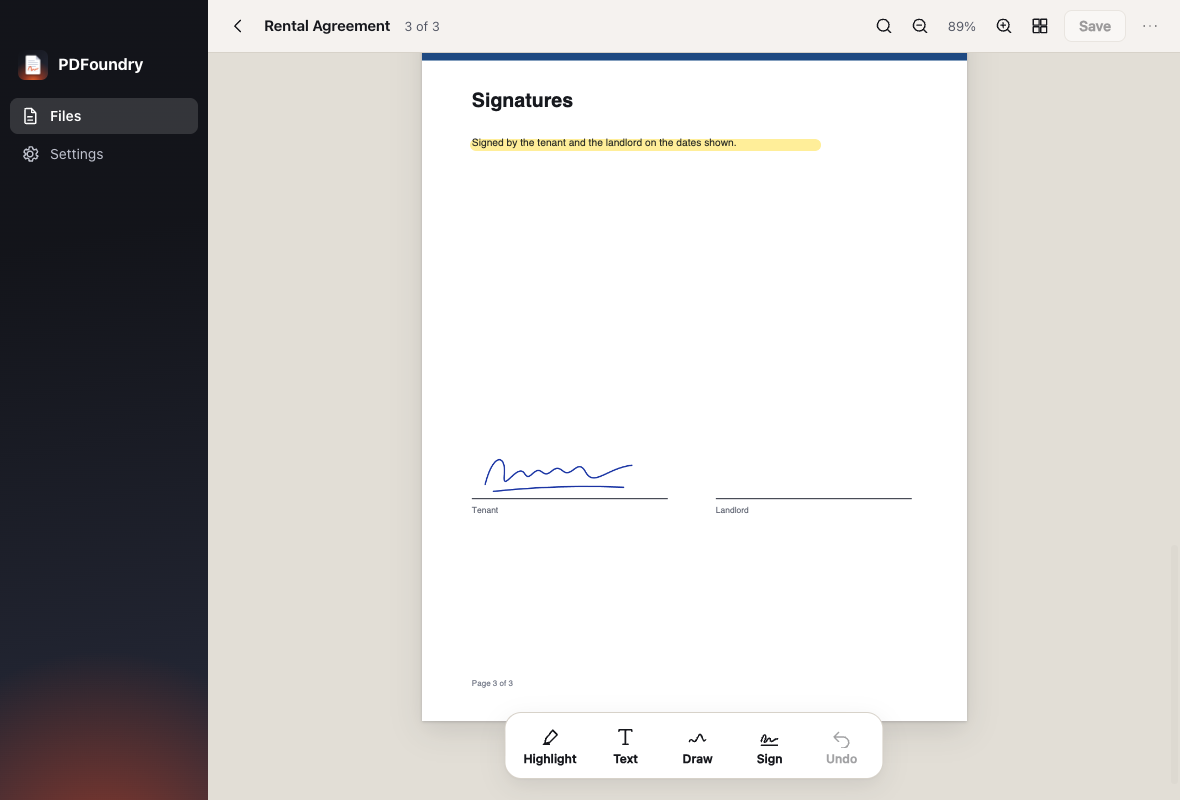
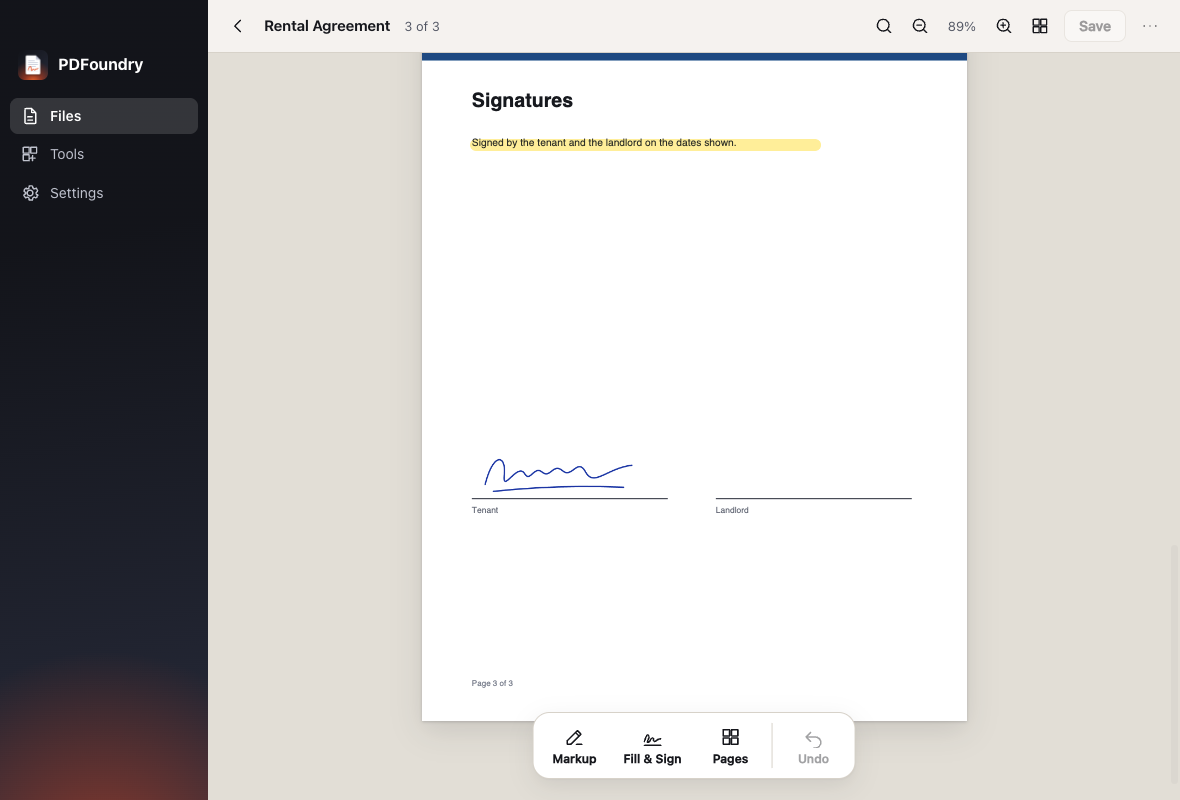
Desktop 1.2.0, new desktop screenshots, README, website and release notes for the redesign

Changed region(s): [[0.4271, 0.875, 0.7627, 0.9688], [0.0, 0.1875, 0.0915, 0.25]]

diff --git a/Website/index.html b/Website/index.html
@@ -50,11 +50,11 @@
       </article>
       <article>
         <h3>Merge</h3>
-        <p>Pick two or more documents, put them in order, and join them into a single PDF.</p>
+        <p>Pick two or more documents, put them in order, and join them into a single PDF. The Tools tab also saves the pages you choose as a new PDF, without changing the original.</p>
       </article>
       <article>
         <h3>Edit</h3>
-        <p>Highlight, type notes and draw on the page. Reorder, rotate, duplicate, extract or delete pages, and undo what you change. On a phone your changes are saved to the same file as you make them, and Revert to Original puts it back as it was when you opened it.</p>
+        <p>Highlight, underline or strike through the text you select, type notes and draw on the page. Markup, Fill &amp; Sign and Pages each keep their own tools in the reader's bar. Reorder, rotate, duplicate, extract or delete pages, and undo what you change. On a phone your changes are saved to the same file as you make them, and Revert to Original puts it back as it was when you opened it.</p>
       </article>
       <article>
         <h3>Sign</h3>
@@ -87,8 +87,8 @@
     <h2>On Mac, Windows and Linux</h2>
     <p class="lede">On a computer, PDFoundry works the way you expect a desktop program to. A PDF opens where you keep it, and it changes only when you press Save. Save As makes a new file and leaves the original alone.</p>
     <div class="desk-shots">
-      <figure><img src="assets/desktop-library.png" alt="Recent files in PDFoundry on a computer" loading="lazy"><figcaption>Your recent files</figcaption></figure>
-      <figure><img src="assets/desktop-signed.png" alt="A signed and highlighted document in PDFoundry on a computer" loading="lazy"><figcaption>Sign and highlight</figcaption></figure>
+      <figure><img src="assets/desktop-markup.png" alt="Markup tools and a text highlight in PDFoundry on a computer" loading="lazy"><figcaption>Mark up the text</figcaption></figure>
+      <figure><img src="assets/desktop-tools.png" alt="The Tools page in PDFoundry on a computer" loading="lazy"><figcaption>Tools</figcaption></figure>
     </div>
   </section>
 

diff --git a/README.md b/README.md
@@ -54,8 +54,8 @@ The phone apps are native: Swift and SwiftUI on iPhone and iPad, Kotlin and Jetp
 | Platform | Version | Status |
 |---|---|---|
 | iPhone and iPad | 1.0.0 | Submitted to the App Store, waiting for review. Available to testers on TestFlight |
-| Android | 1.0.3 | In closed testing on Google Play |
-| macOS, Windows and Linux | 1.1.1 | Released. [Download](https://github.com/Fahed-Alhammadi/PDFoundry/releases/latest). The Mac app is signed and notarized |
+| Android | 1.0.4 | In closed testing on Google Play |
+| macOS, Windows and Linux | 1.2.0 | Released. [Download](https://github.com/Fahed-Alhammadi/PDFoundry/releases/latest). The Mac app is signed and notarized |
 
 Store links for the phone apps will be added here and on the [website](https://fahed-alhammadi.github.io/PDFoundry/) when the apps are public.
 
@@ -66,8 +66,10 @@ Store links for the phone apps will be added here and on the [website](https://f
 | **Read** | Open a PDF where it is in Files, or receive one from Mail, Safari or the share sheet. Search the text. Scroll vertically or sideways | Open a PDF where it is with the file picker, or receive one from any app's share menu. Search the text. Pinch to zoom | Open a PDF where it is, or drop it onto the window. Search the text. Zoom |
 | **Scan and create** | Scan paper with the camera. Build a PDF from photos | Scan paper with Google's document scanner. Build a PDF from photos | Build a PDF from images. No scanning |
 | **Merge** | Select documents, drag them into order, merge | Select documents, order them with arrows, merge | Select documents, order them with arrows, merge |
-| **Highlight** | Select text, then highlight (four colours), underline or strike through | Drag a marker over the page | Drag a marker over the page, four colours |
-| **Text and drawing** | Type anywhere. Draw with a finger or Apple Pencil | Type anywhere (Arabic shapes correctly). Draw with a finger or stylus | Type anywhere (Arabic shapes correctly). Draw with the mouse or a pen |
+| **Tools** | A Tools tab: Scan Document, Create from Photos, Merge PDFs, Extract Pages | Same | A Tools page in the sidebar: Create from Images, Merge PDFs, Extract Pages |
+| **Reader** | A bar with three labelled groups: Markup, Fill & Sign and Pages, plus Undo | Same | Same |
+| **Markup** | Select text, then highlight (four colours), underline or strike through | Same | Same |
+| **Text and drawing** | Type anywhere. Draw with a finger or Apple Pencil | Type anywhere (Arabic shapes correctly). Draw with a finger or stylus, or with a highlighter pen | Type anywhere (Arabic shapes correctly). Draw with the mouse or a pen, or with a highlighter pen |
 | **Sign** | Draw once in black or blue ink, reuse, drag and resize before placing | Same | Same |
 | **Pages** | Reorder by dragging. Rotate, duplicate, extract, delete, add blank pages | Reorder with arrows. Rotate, duplicate, extract, delete, add blank pages | Reorder by dragging or with arrows. Rotate, duplicate, extract, delete, add blank pages |
 | **Undo** | Tap any mark to remove it, or undo recent edits. Revert to Original puts the file back as it was when you opened it | Undo the last ten changes while the document is open. Revert to original puts the file back as it was when you opened it | Undo the last ten changes; nothing is written until you save |
@@ -93,8 +95,8 @@ On every platform, signatures and edits are written into the PDF itself, so they
 <p>
   <img src="screenshots/desktop/01-library.png" width="49%" alt="Recent files on the desktop">
   <img src="screenshots/desktop/02-signed.png" width="49%" alt="A signed and highlighted document on the desktop">
-  <img src="screenshots/desktop/04-pages.png" width="49%" alt="Page organizer on the desktop">
-  <img src="screenshots/desktop/08-library-dark.png" width="49%" alt="Recent files in dark mode on the desktop">
+  <img src="screenshots/desktop/09-markup.png" width="49%" alt="Markup tools and a text highlight on the desktop">
+  <img src="screenshots/desktop/11-tools.png" width="49%" alt="The Tools page on the desktop">
 </p>
 
 **Android**
@@ -167,12 +169,13 @@ npm start
 | To | iPhone and iPad | Android | macOS, Windows and Linux |
 |---|---|---|---|
 | Add a document | **+** in the library: Open from Files, Scan Document, or Create from Photos | **+** in the library: Open PDF, Scan document, or Create from photos | **Open**, or drop a PDF on the window. Create from images is in the **…** menu |
-| Merge | **Select**, choose documents, tap the merge button | Press and hold to select, choose documents, tap the merge button | **Select**, choose files, **Merge**, then say where to save |
-| Highlight | Press and hold text to select it, then tap the highlighter | Tap **Highlight**, then drag over the page | Click **Highlight**, then drag over the page |
-| Add text | Tap **Aa**, type, drag the text into place, tap **Place** | Tap **Text**, type, drag the text into place, tap **Place** | Click **Text**, type, drag the text into place, **Place** |
-| Draw | Tap the pencil, draw, tap **Done** | Tap **Draw**, draw, tap **Done** | Click **Draw**, draw, **Done** |
-| Sign | Tap the signature button, draw or pick a signature, position it, tap **Place** | Tap **Sign**, draw or pick a signature, position it, tap **Place** | Click **Sign**, draw or pick a signature, position it, **Place** |
-| Edit pages | **…** then **Organize Pages** | **⋮** then **Organize pages** | The grid button in the toolbar, or **View > Organize Pages** |
+| Merge | **Tools > Merge PDFs**, or **Select** in the library, choose documents, tap the merge button | **Tools > Merge PDFs**, or press and hold to select, choose documents, tap the merge button | **Tools > Merge PDFs**, or **Select**, choose files, **Merge**, then say where to save |
+| Extract pages | **Tools > Extract Pages**, pick a document, tick pages, **Extract**. The original is not changed | Same | Same, then say where to save |
+| Highlight, underline, strike through | **Markup**, then the tool, then select the words | **Markup**, then the tool, then drag across the words | **Markup**, then the tool, then select the words |
+| Add text | **Markup** or **Fill & Sign**, then **Text**, type, drag the text into place, tap **Place** | Same | Same |
+| Draw | **Markup**, then **Draw**, draw, tap **Done** | Same | Same |
+| Sign | **Fill & Sign**, then **Signature**, draw or pick a signature, position it, tap **Place**. The bar stays in Fill & Sign for the next one | Same | Same |
+| Edit pages | **Pages** in the reader's bar | **Pages** in the reader's bar | **Pages** in the bar, the grid button in the toolbar, or **View > Organize Pages** |
 | Remove an edit | Tap it, then **Delete** | Tap **Undo** | **Undo** |
 | Undo everything since opening | **…** then **Revert to Original** | **⋮** then **Revert to original** | Close without saving |
 | Save | Saved automatically, to the same file | Saved automatically, to the same file | **Save** (Ctrl+S or ⌘S), or **Save As** for a new file |
